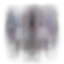
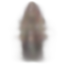
adjusted start menu button and text placement

diff --git a/src/Core/Scripts.py b/src/Core/Scripts.py
@@ -255,12 +255,17 @@ class Graphics:
 
 def pause_menu(state):
     print(state.t)
+    W = state.W
+    H = state.H
+    bW = 200
+    bH = 30
+    bHd = 50
 
     temporary_bg = state.screen.copy()
     # Define button positions
-    b_continue = bt.B_Continue((200, 200, 100, 30), state)
-    b_startover = bt.B_Start_Over((200, 250, 100, 30), state)
-    b_exit = bt.B_Exit((200, 300, 100, 30), state)
+    b_continue =  bt.B_Continue(  (W//2 - bW//2, H//3, bW, bH), state)
+    b_startover = bt.B_Start_Over((W//2 - bW//2, H//3 + bHd, bW, bH), state)
+    b_exit =      bt.B_Exit(      (W//2 - bW//2, H//3 + 2*bHd, bW, bH), state)
     menu = [b_continue, b_startover, b_exit]
     selection = 0
     menu[0].select()
@@ -413,13 +418,7 @@ def player_set(state):
 
     menu_run = True
 
-    # draw buttons
-
-    for x in menu:
-        for y in x:
-            state.screen.blit(y.image, y.rect)
-            state.screen.blit(pg.font.Font.render(menu[0][ship_selected].font, y.text, 0, WHITE),
-                              pg.Rect(300, 200, 5, 5))
+    # draw buttons and ship abilities
 
     while (menu_run):
 
@@ -431,10 +430,11 @@ def player_set(state):
         for x in menu[1]:
             state.screen.blit(pg.font.Font.render(x.font, x.text, 0, WHITE), x.rect)
 
-        state.screen.blit(pg.font.Font.render(menu[0][ship_selected].font,
-                                              menu[0][ship_selected].text,
-                                              0, WHITE),
-                          pg.Rect(300, 200, 5, 5))
+        for i, line in enumerate(menu[0][ship_selected].text.split('\n')):
+            state.screen.blit(pg.font.Font.render(menu[0][ship_selected].font,
+                                                  line,
+                                                  0, WHITE),
+                              pg.Rect(W//2 -50, H//2 + i*20 - 50, 5, 5))
 
         pg.display.flip()
 

diff --git a/src/Entities/Chaser.py b/src/Entities/Chaser.py
@@ -6,7 +6,7 @@ from Entities.Bot import Bot
 
 class Chaser(Bot):
     def __init__(self, image, x, y, state=None, **kwargs):
-        """will chase """
+        """will chase the player"""
         super().__init__(image, x, y, state=state, **kwargs)
         # Assign goal if
         self.pickTarget()

diff --git a/README.md b/README.md
@@ -3,13 +3,10 @@ This is a simple 2d space shoter written in Python, using pygame modules.
 
 # Gameplay
 
-https://user-images.githubusercontent.com/30277772/146070947-a7f74479-246a-4043-b16f-74c2fda417a4.mp4
-
-
 
 # Get Started
 You will need to install pygame library to run the project:    
 `pip install pygame`
     
 run:   
-`python Main.py`
+`python src/Main.py`
